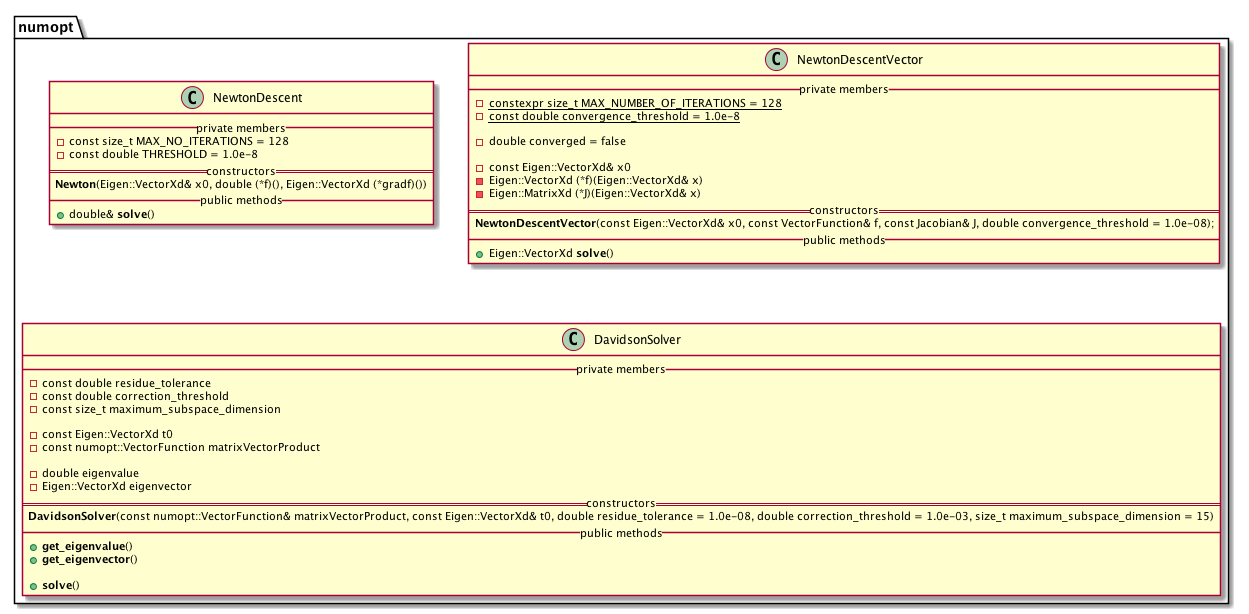
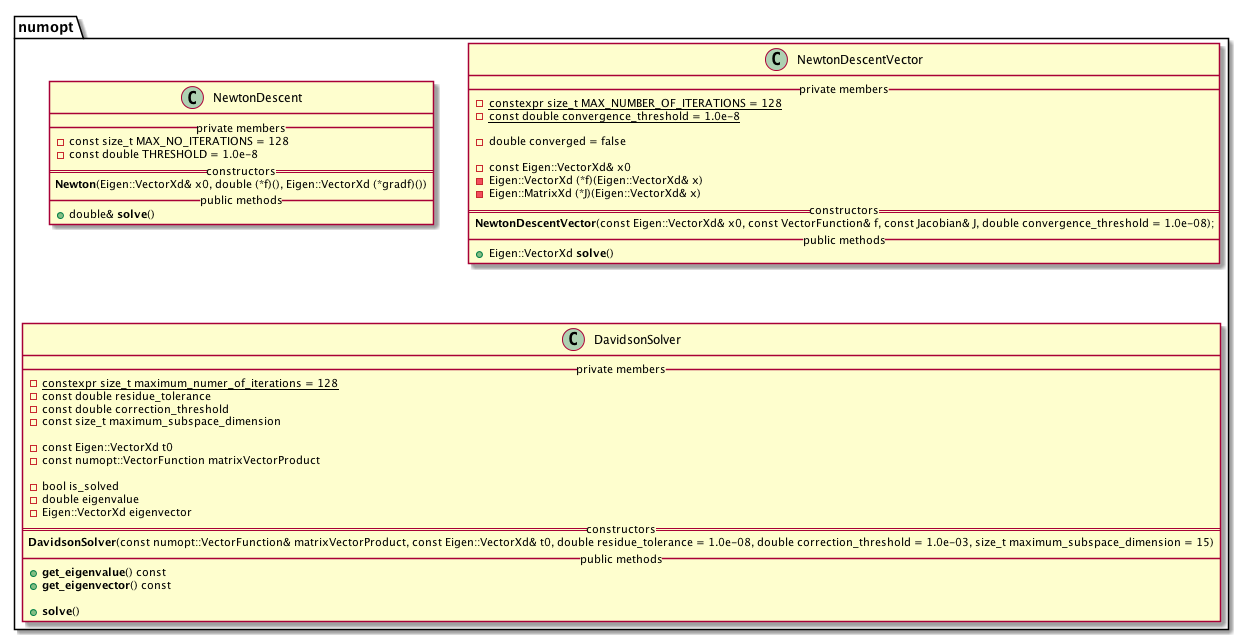
Implement the header file.

Changed region(s): [[0.0, 0.0, 0.9992, 0.4642], [0.0, 0.4951, 0.9992, 0.9902]]

diff --git a/include/DavidsonSolver.hpp b/include/DavidsonSolver.hpp
@@ -1,0 +1,68 @@
+#ifndef NUMOPT_DAVIDSONSOLVER_HPP
+#define NUMOPT_DAVIDSONSOLVER_HPP
+
+
+
+#include <Eigen/Dense>
+
+#include "common.hpp"
+
+
+
+namespace numopt {
+
+/**
+ *  A class that implements the Davidson algorithm for finding the lowest eigenpair of a (possibly large) diagonally-
+ *  dominant symmetric matrix.
+ */
+class DavidsonSolver {
+private:
+    static constexpr size_t maximum_numer_of_iterations = 128;
+
+    const double residue_tolerance;  // the tolerance on the norm of the residual vector
+    const double correction_threshold;  // the threshold used in solving the (approximated) residue correction equation
+    const size_t maximum_subspace_dimension;
+
+    const Eigen::VectorXd t_0;  // the initial guess
+    const numopt::VectorFunction matrixVectorProduct;
+
+    bool is_solved;
+    double eigenvalue;
+    Eigen::VectorXd eigenvector;
+
+
+public:
+    // CONSTRUCTORS
+    /**
+     *  Constructor based on a given matrix-vector product function @param matrixVectorProduct initial guess @param t_0.
+     */
+    DavidsonSolver(const numopt::VectorFunction& matrixVectorProduct, const Eigen::VectorXd& t_0, double residue_tolerance = 1.0e-08, double correction_threshold = 1.0e-03, size_t maximum_subspace_dimension = 15);
+
+
+    // GETTERS
+    double get_eigenvalue() const;
+    Eigen::VectorXd get_eigenvector() const;
+
+
+    // PUBLIC METHODS
+    /**
+     *  Solve the eigenvalue problem related to the given matrix-vector product.
+     *
+     *  If successful, sets
+     *      - @member is_solved to true
+     *      - @member eigenvalue to the calculated eigenvalue
+     *      - @member eigenvector to the calculated eigenvector
+     */
+    double solve();
+};
+
+
+}  // namespace numopt
+
+
+
+
+
+
+
+#endif  // NUMOPT_DAVIDSONSOLVER_HPP

diff --git a/src/DavidsonSolver.cpp b/src/DavidsonSolver.cpp
@@ -1,0 +1,16 @@
+#include "DavidsonSolver.hpp"
+
+
+
+namespace numopt {
+
+
+double DavidsonSolver::get_eigenvalue() const { return this->eigenvalue; }
+Eigen::VectorXd DavidsonSolver::get_eigenvector() const { return this->eigenvector; }
+
+
+
+}  // namespace numopt
+
+
+
